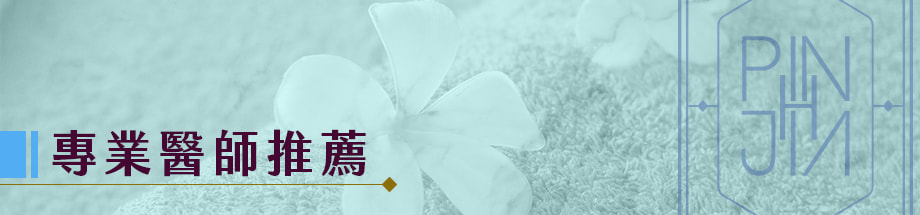
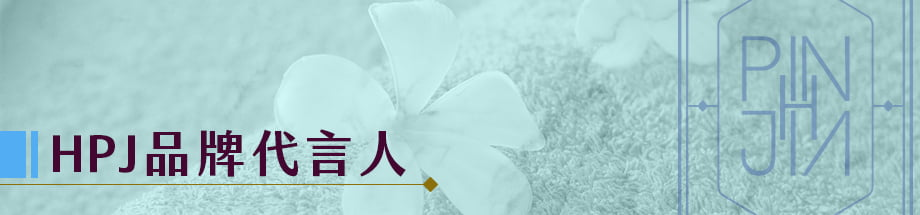
更新品牌代言人頁面標題 #20200608

Changed region(s): [[0.0304, 0.586, 0.487, 0.893]]

diff --git a/recommend.html b/recommend.html
@@ -17,7 +17,7 @@
 <link rel="shortcut icon"  href="images/favicon.ico"/>
 <link rel="icon" href="images/favicon.ico"/>
 <link rel="apple-touch-icon" href="images/favicon@2x.ico">
-<title>「佛系閨蜜醫生」吳昱昌醫師專業推薦│HPJ單細胞策略,最初始的細胞修護概念從洗臉開始</title>
+<title>HPJ品牌代言人-「佛系閨蜜醫生」吳昱昌醫師專業推薦│HPJ單細胞策略,最初始的細胞修護概念從洗臉開始</title>
 <link rel="stylesheet" href="css/xue-pages.css"/>
 <link rel="stylesheet" href="css/xue-expansion.css">
 <link rel="stylesheet" href="css/xue-mobile.css">
@@ -83,12 +83,12 @@ height="0" width="0" style="display:none;visibility:hidden"></iframe></noscript>
                     </div>
                     
                     <div id="bar_cookie">
-                        <i class="fas fa-hospital-symbol"></i><a href="index.html">首頁</a> &rsaquo; 專業醫生推薦
+                        <i class="fas fa-hospital-symbol"></i><a href="index.html">首頁</a> &rsaquo; HPJ 品牌代言人
                     </div>
                     
                     <div id="container-main">
                         <scetion class="wow fadeInUp">
-                            <h4>HPJ 舒敏系列深受專業醫師推薦</h4>
+                            <h4>HPJ 品牌代言人</h4>
                             
                             <div id="doctor-info">
                                 <img class="doctor-photo" src="images/pic_doctor-wu.png" alt="doctor-photo" >
